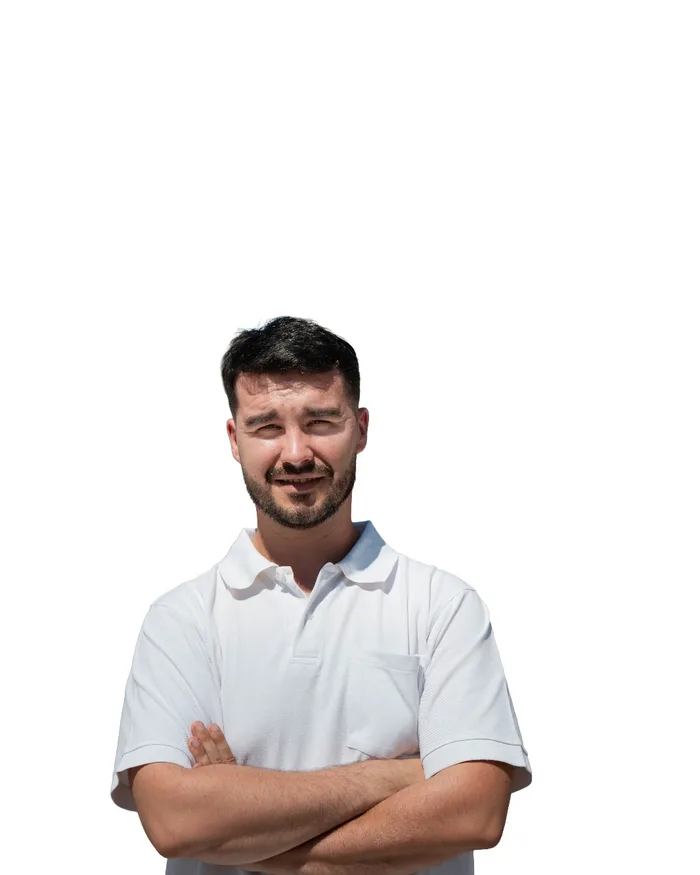
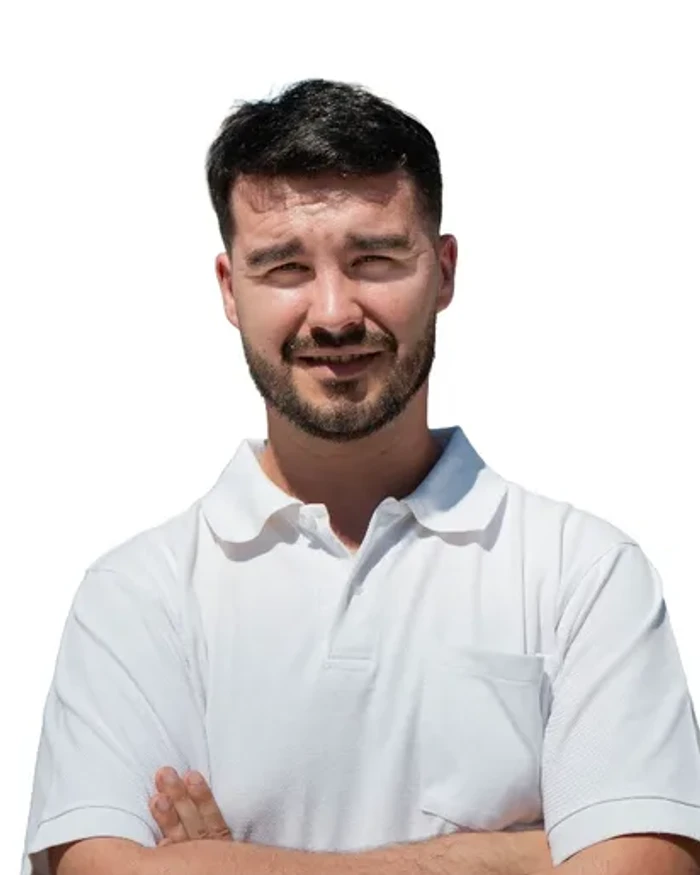
Equipa: fotos todas do mesmo tamanho; Candidatos: foto do Bruno reenquadrada

diff --git a/app/trofa-liberal/equipa/page.tsx b/app/trofa-liberal/equipa/page.tsx
@@ -10,23 +10,15 @@ function iniciais(nome: string) {
   return `${p[0]?.[0] ?? ""}${p[p.length - 1]?.[0] ?? ""}`;
 }
 
-function Pessoa({ m, destaque }: { m: Membro; destaque?: boolean }) {
+function Pessoa({ m }: { m: Membro }) {
   return (
     <li className="flex flex-col items-center rounded-2xl bg-white p-6 text-center shadow-sm ring-1 ring-navy/10">
       {m.foto ? (
-        <Image
-          src={m.foto}
-          alt={m.nome}
-          width={228}
-          height={228}
-          className={`rounded-full ${destaque ? "h-40 w-40" : "h-32 w-32"}`}
-        />
+        <Image src={m.foto} alt={m.nome} width={228} height={228} className="h-36 w-36 rounded-full" />
       ) : (
         <div
           aria-hidden
-          className={`font-display flex items-center justify-center rounded-full bg-gradient-to-br from-cyan to-navy font-bold text-white ${
-            destaque ? "h-40 w-40 text-5xl" : "h-32 w-32 text-4xl"
-          }`}
+          className="font-display flex h-36 w-36 items-center justify-center rounded-full bg-gradient-to-br from-cyan to-navy text-4xl font-bold text-white"
         >
           {iniciais(m.nome)}
         </div>
@@ -87,8 +79,8 @@ export default function Equipa() {
             : `Lista a submeter ao plenário eletivo, no ${local}`}
         </p>
         <ul className="mt-10 grid grid-cols-1 gap-5 sm:grid-cols-2 lg:grid-cols-4">
-          {gcl.map((m, i) => (
-            <Pessoa key={m.nome} m={m} destaque={i < 2} />
+          {gcl.map((m) => (
+            <Pessoa key={m.nome} m={m} />
           ))}
         </ul>
       </section>
